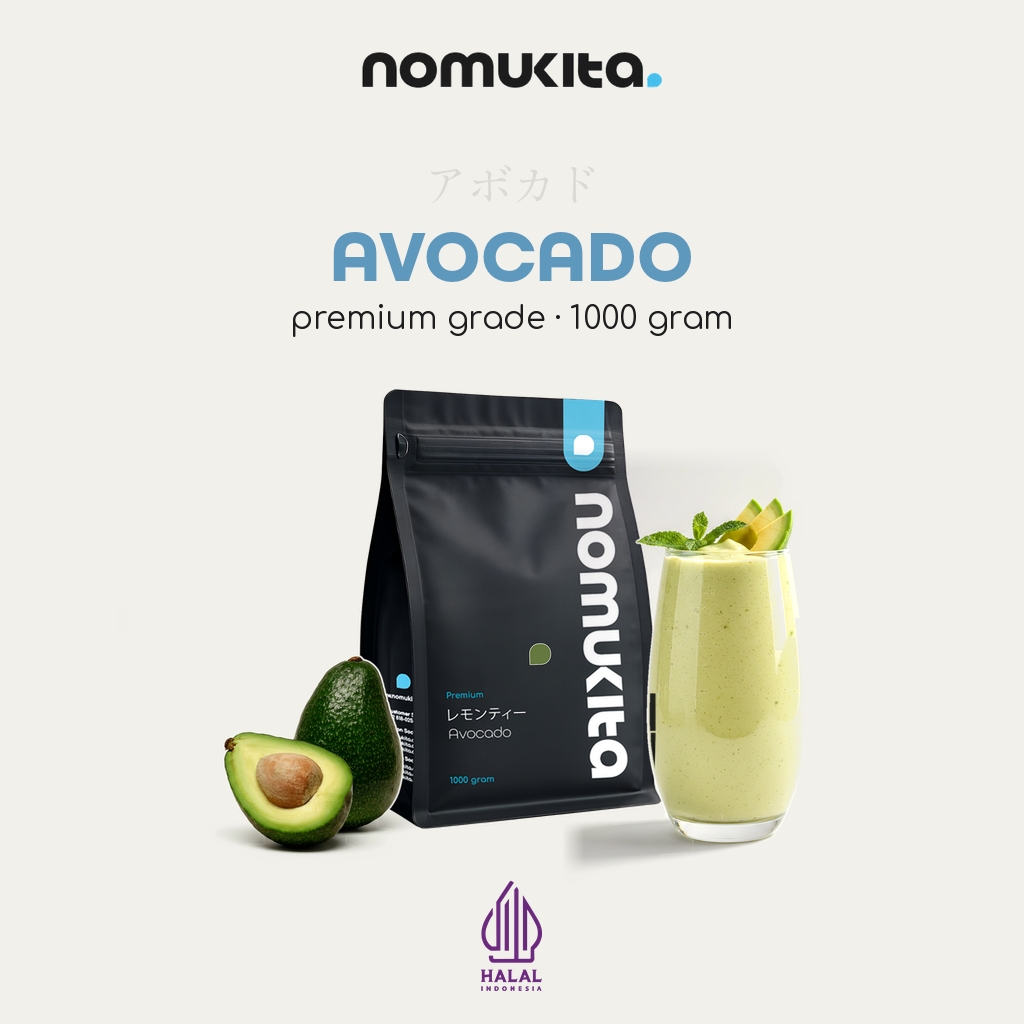
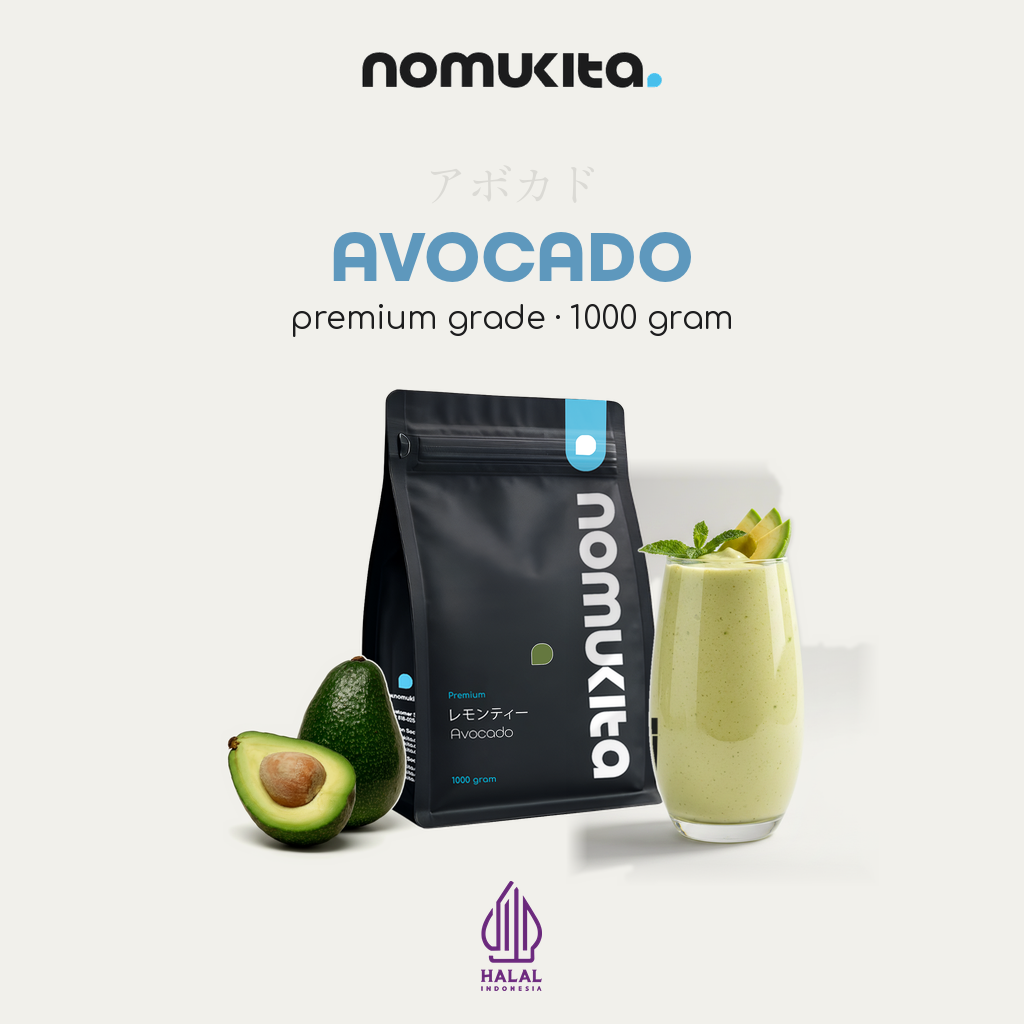
Fix the blown-out glass and the neon rim on the avocado
Two separate faults, one mine and one in the generated frame.

The white on the glass was a compositing bug. The generated frames are
vignetted: the sweep behind the glass reads about 240 while the frame border is
213, so the diffused backdrop estimate came out around 210 and every glass pixel
was divided by a number 14 per cent too small. Grey glass at 186 landed at 250
and the highlights clipped to pure white. The estimate is now calibrated against
the sweep measured in a ring beside the subject, so it matches what the glass was
actually shot on.

Two things surfaced while fixing it and are worth keeping. The subject mask is an
outline and for a glass it is hollow - the interior drains out through the mouth,
so binary_fill_holes left it 19 per cent filled; each row is now filled between
its outermost edge pixels. And an alpha built from pixel deviation printed the
drink as flat blocks, so the multiply is kept: over bone white it already
reproduces the subject exactly, and alpha is only needed where the subject
overlaps the pouch.

The neon line on the avocado was not compositing - the composited pixels matched
the source to within a couple of levels. The generated frame itself carried a
glowing lime rim, so the prop is regenerated asking for matte, restrained colour
with no rim light.

Claude-Session: https://claude.ai/code/session_01A4GLsk6vKeeUp3C5p2a7yr

diff --git a/nomukita-carousel/photo.py b/nomukita-carousel/photo.py
@@ -65,6 +65,23 @@ def _layer(path):
     if not obj.any():
         obj = dev > OBJ
 
+    # The edge mask is an outline, and for a glass it is hollow: the interior
+    # drains out through the mouth, so binary_fill_holes left it 19 per cent
+    # filled and the unfilled channels printed as vertical streaks down the
+    # drink. Fill each row between the outermost edge pixels instead - the cast
+    # shadow has almost no gradient, so it never enters that span.
+    filled = np.zeros_like(obj)
+    for y in np.nonzero(obj.any(1))[0]:
+        row = np.nonzero(obj[y])[0]
+        filled[y, row.min():row.max() + 1] = True
+    obj = filled
+
+    ring0 = ndi.binary_dilation(obj, np.ones((3, 3)), iterations=25) & ~obj
+    white = (np.percentile(img[ring0], 97, axis=0) if ring0.any()
+             else np.array([245.0] * 3))
+    bg = _calibrate(bg, ring0, white)
+    ratio = img / np.maximum(bg, 1)
+
     # away from the object the layer may only darken - that is the cast shadow.
     # Letting it brighten prints the error of the backdrop estimate as a patch.
     ratio = np.where(obj[..., None], ratio, np.minimum(ratio, 1))
@@ -79,19 +96,38 @@ def _layer(path):
                               np.clip(Y / ramp, 0, 1), np.clip((H - 1 - Y) / ramp, 0, 1)])
     ratio = 1 + (ratio - 1) * (soft * fade)[..., None]
 
+    # White point of the sweep right next to the subject. The generated frames
+    # are vignetted - the sweep behind the glass reads ~240 while the frame edge
+    # is ~213 - so a per-pixel divide blows the subject out: grey glass at 186
+    # came back as 250 and the highlights clipped to pure white. The subject is
+    # therefore rebalanced by this single local white instead.
     ys, xs = np.nonzero(obj)
-    return ratio, obj, (int(xs.min()), int(ys.min()), int(xs.max()) + 1, int(ys.max()) + 1)
+    return (ratio, obj, white,
+            (int(xs.min()), int(ys.min()), int(xs.max()) + 1, int(ys.max()) + 1))
+
+
+def _calibrate(bg, ring, white):
+    """Scale the backdrop estimate so it matches the sweep measured beside the
+    subject. The generated frames are vignetted, so the diffused estimate reads
+    ~210 where the real sweep behind the glass is ~240 - a 14 per cent error
+    that pushed grey glass at 186 up to 250 and clipped highlights to white."""
+    if not ring.any():
+        return bg
+    here = np.percentile(bg[ring], 97, axis=0)
+    return bg * (white / np.maximum(here, 1.0))
 
 
 _CACHE = {}
 _MASK = {}
+_WHITE = {}
 
 
 def load(path):
     if path not in _CACHE:
-        ratio, obj, bb = _layer(path)
+        ratio, obj, white, bb = _layer(path)
         _CACHE[path] = (ratio, bb)
         _MASK[path] = obj
+        _WHITE[path] = white
     return _CACHE[path]
 
 
@@ -142,10 +178,14 @@ def place(canvas, path, left, bottom, height, body=False):
     # near black and read as sitting *behind* the pouch. So the subject is
     # composited over the backdrop, developed against bone white, and only the
     # area outside it keeps the multiply.
+    # Over the bone white slide, `backdrop * ratio` already reproduces the
+    # subject exactly, so the multiply is kept. Alpha only matters where the
+    # subject overlaps something else - the black pouch - because there the
+    # multiply would darken an avocado into near black and it would read as
+    # sitting behind the pouch.
     obj = _MASK[path]
     alpha = ndi.gaussian_filter(obj.astype(float), 1.0)[..., None]
-    shadow = np.where(obj[..., None], 1.0, ratio)
     subject = ratio * np.array(BONE, float)
-    out = np.clip(backdrop * shadow * (1 - alpha) + subject * alpha, 0, 255).astype(np.uint8)
+    out = np.clip(backdrop * ratio * (1 - alpha) + subject * alpha, 0, 255).astype(np.uint8)
     canvas.paste(Image.fromarray(out).resize((tw, th), Image.LANCZOS), (ox, oy))
     return canvas
